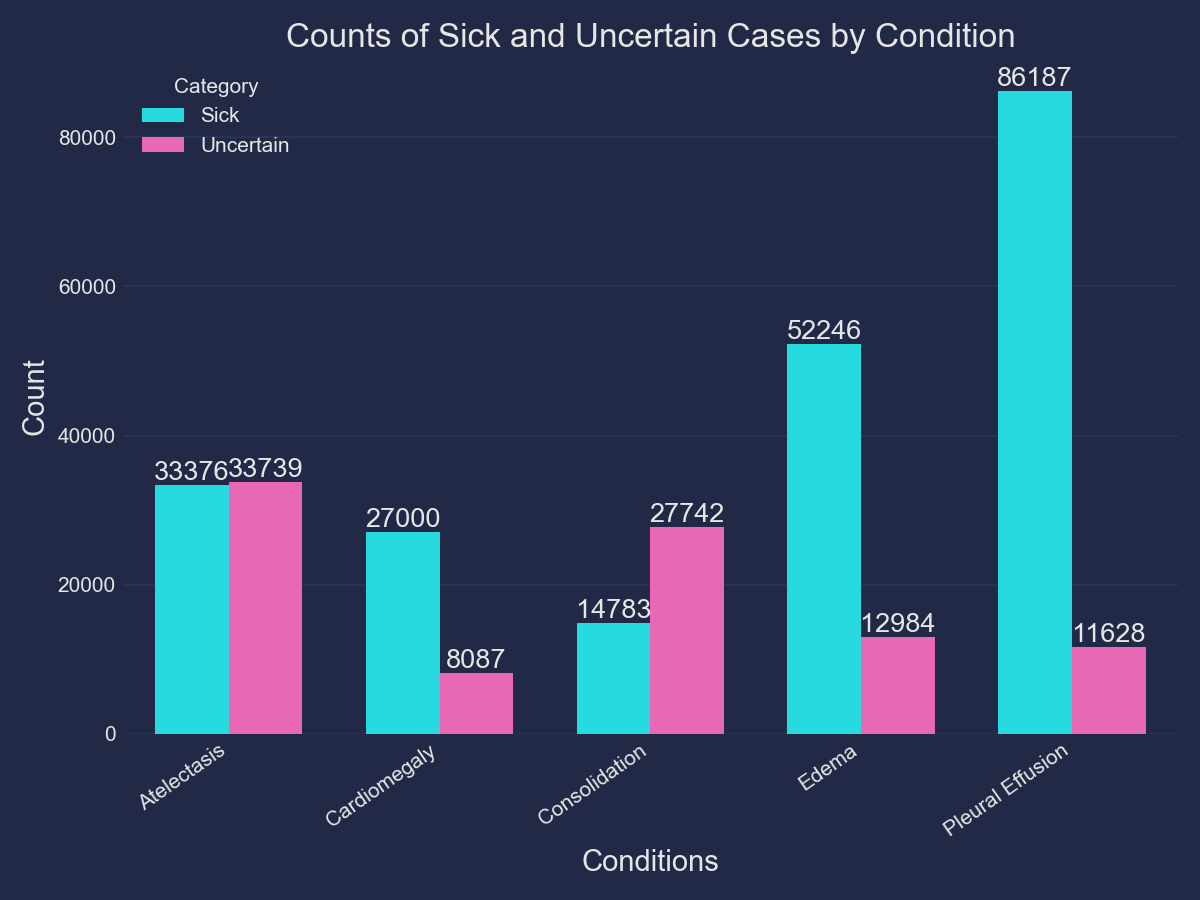
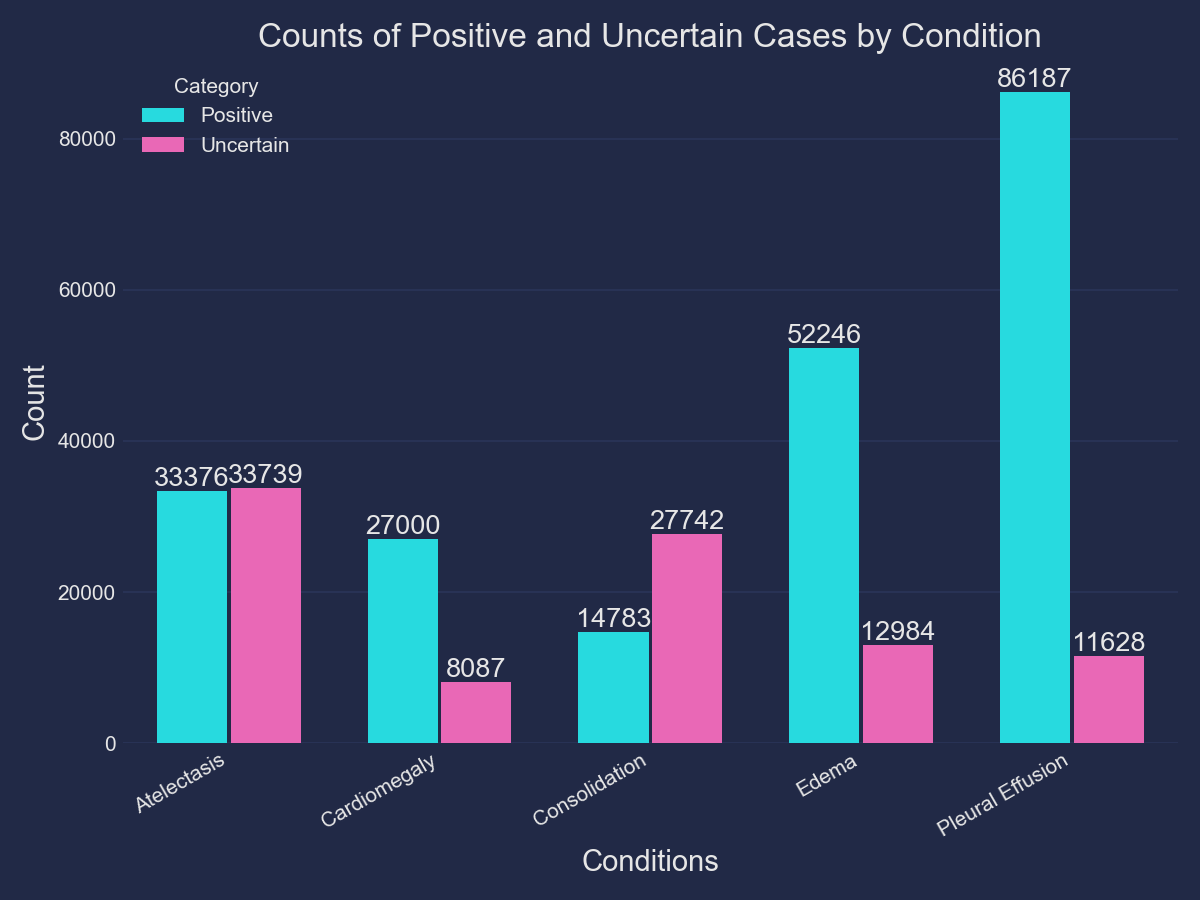
Add uncertainty conversion & tag listing
- Updated image assets and added a new one.
- Enhanced `CheXpertAnalyzer` to handle uncertain label conversion.
- Added `_apply_uncertain_mappings` method for label mapping.
- Modified bar plot logic based on uncertainty conversion flag.
- Introduced `get_available_tags` method to list dataset tags.
- Updated command-line interface with new options for converting uncertainties and listing tags.

diff --git a/data/chexpert_analyzer.py b/data/chexpert_analyzer.py
@@ -27,12 +27,31 @@ CHEXPERT_UNCERTAIN_MAPPINGS = {
 class CheXpertAnalyzer:
     """Class for analyzing and visualizing CheXpert dataset."""
 
-    def __init__(self, csv_path: str):
+    def __init__(self, csv_path: str, convert_uncertain: bool = False):
+        """
+        Initialize the CheXpert analyzer.
+        
+        Args:
+            csv_path: Path to the CheXpert CSV file
+            convert_uncertain: Whether to convert uncertain labels (-1) using the mapping
+        """
         self.df = pd.read_csv(csv_path)
+        self.convert_uncertain = convert_uncertain
+        
         # Drop non-finding columns and first row column
         self.feature_cols = [col for col in self.df.columns if col not in 
                             ['Path', 'Sex', 'Age', 'Frontal/Lateral', 'AP/PA']]
         
+        # Apply uncertain mappings if requested
+        if self.convert_uncertain:
+            self._apply_uncertain_mappings()
+    
+    def _apply_uncertain_mappings(self) -> None:
+        """Apply the uncertain value mappings from the CheXpert paper."""
+        for condition, mapping in CHEXPERT_UNCERTAIN_MAPPINGS.items():
+            if condition in self.df.columns:
+                # Replace -1.0 values with the mapping (0 or 1)
+                self.df.loc[self.df[condition] == -1.0, condition] = mapping
 
     def count_conditions(self, tags: List[str]) -> pd.DataFrame:
         """
@@ -57,12 +76,17 @@ class CheXpertAnalyzer:
         
         for tag in tags:
             sick_count = (tag_data[tag] == 1.0).sum()
-            uncertain_count = (tag_data[tag] == -1.0).sum()
             
-            result_data.extend([
-                {'Tag': tag, 'Category': 'Sick', 'Count': sick_count},
-                {'Tag': tag, 'Category': 'Uncertain', 'Count': uncertain_count}
-            ])
+            # Only count uncertain if we're not converting them
+            if self.convert_uncertain:
+                # When converted, we don't have uncertain values anymore
+                result_data.append({'Tag': tag, 'Category': 'Positive', 'Count': sick_count})
+            else:
+                uncertain_count = (tag_data[tag] == -1.0).sum()
+                result_data.extend([
+                    {'Tag': tag, 'Category': 'Positive', 'Count': sick_count},
+                    {'Tag': tag, 'Category': 'Uncertain', 'Count': uncertain_count}
+                ])
             
         return pd.DataFrame(result_data)
 
@@ -72,32 +96,44 @@ class CheXpertAnalyzer:
         plt.figure(figsize=(8, 6))
         
         # Define color palette (Data volume ranking)
-        # palette_name = 'coolwarm'
-        # pal = sns.color_palette(palette_name, len(count_df['Tag']))
-        # print(count_df)
-        # print(count_df['Tag'])
-        # rank = count_df['Count'].argsort().argsort()
-        # palette_list = list(np.array(pal)[rank])
+        palette_name = 'coolwarm'
+        pal = sns.color_palette(palette_name, len(count_df['Tag']))
+        rank = count_df['Count'].argsort().argsort()
+        palette_list = list(np.array(pal)[rank])
 
-        # Create the grouped bar plot
         plt.style.use('cyberpunk')
-        ax = sns.barplot(
-            x='Tag', 
-            y='Count', 
-            hue='Category',
-            data=count_df,
-            # palette=palette_list,
-            # dodge=False, 
-            width=0.7
-        )
-        
+        if self.convert_uncertain:
+            # Create the grouped bar plot
+            ax = sns.barplot(
+                x='Tag', 
+                y='Count', 
+                hue='Tag',
+                data=count_df,
+                palette=palette_list,
+                dodge=False, 
+                width=0.5
+            )
+        else:
+            ax = sns.barplot(
+                x='Tag', 
+                y='Count', 
+                hue='Category',
+                data=count_df,
+                gap=0.05,
+                width=0.7
+            )
+
         # Set title and labels
-        ax.set_title('Counts of Sick and Uncertain Cases by Condition', fontsize=16)
+        title = 'Counts of Positive Cases by Condition'
+        if not self.convert_uncertain:
+            title = 'Counts of Positive and Uncertain Cases by Condition'
+            
+        ax.set_title(title, fontsize=16)
         ax.set_xlabel('Conditions', fontsize=14)
         ax.set_ylabel('Count', fontsize=14)
         
         # Rotate x-axis labels if there are many conditions
-        plt.xticks(rotation=35, ha='right')
+        plt.xticks(rotation=30, ha='right')
         
         # Add count labels on the bars
         for container in ax.containers:
@@ -108,6 +144,9 @@ class CheXpertAnalyzer:
         plt.savefig(output_path, dpi=150)
         plt.close()
 
+    def get_available_tags(self) -> List[str]:
+        """Return a list of available condition tags in the dataset."""
+        return self.feature_cols
 
 def parse_arguments() -> argparse.Namespace:
     """Parse command line arguments."""
@@ -115,28 +154,40 @@ def parse_arguments() -> argparse.Namespace:
     parser.add_argument('--csv_path', type=str, required=True, help='Path to the CheXpert CSV file')
     parser.add_argument('--tags', type=str, nargs='+', required=True, help='List of condition tags to analyze')
     parser.add_argument('--output_path', type=str, required=True, help='Path to save the visualization')
+    parser.add_argument('--convert_uncertain', action='store_true', 
+                        help='Convert uncertain labels (-1) using CheXpert paper mappings')
+    parser.add_argument('--list_tags', action='store_true',
+                        help='List all available condition tags in the dataset')
     
     return parser.parse_args()
 
-
 def main() -> None:
     args = parse_arguments()
+    
+    # Initialize analyzer
+    analyzer = CheXpertAnalyzer(args.csv_path, convert_uncertain=args.convert_uncertain)
+    
+    # List available tags if requested
+    if args.list_tags:
+        print("Available condition tags:")
+        for tag in analyzer.get_available_tags():
+            print(f"  - {tag}")
+        return
     
     # Ensure the output directory exists
     output_dir = Path(args.output_path).parent
     output_dir.mkdir(parents=True, exist_ok=True)
     
-    # Initialize analyzer and process data
-    analyzer = CheXpertAnalyzer(args.csv_path)
-    
     try:
         count_df = analyzer.count_conditions(args.tags)
         analyzer.visualize_counts(count_df, args.output_path)
-        print(f"Analysis complete. Visualization saved to {args.output_path}")
+        
+        # Print summary of what was done
+        conversion_status = "with uncertainty conversion" if args.convert_uncertain else "without uncertainty conversion"
+        print(f"Analysis complete {conversion_status}. Visualization saved to {args.output_path}")
     except ValueError as e:
         print(f"Error: {e}")
         return
-
 
 if __name__ == "__main__":
     main()
@@ -144,8 +195,9 @@ if __name__ == "__main__":
 """
 python chexpert_analyzer.py --csv_path path/to/chexpert.csv --tags "No Finding" "Pneumonia" "Edema" --output_path path/to/output.png
 
-python data\chexpert_analyzer.py --csv_path D:\Kai\DATA_Set_2\X-ray\CheXpert-v1.0-small\valid.csv --tags "Atelectasis" "Cardiomegaly" "Consolidation" "Edema" "Pleural Effusion" --output_path output/chexpert_val.png
+python data\chexpert_analyzer.py --csv_path D:\Kai\DATA_Set_2\X-ray\CheXpert-v1.0-small\valid.csv --tags "Atelectasis" "Cardiomegaly" "Consolidation" "Edema" "Pleural Effusion" --output_path output/chexpert_val.png  --convert_uncertain
 
-python data\chexpert_analyzer.py --csv_path D:\Kai\DATA_Set_2\X-ray\CheXpert-v1.0-small\train.csv --tags "Atelectasis" "Cardiomegaly" "Consolidation" "Edema" "Pleural Effusion" --output_path output/chexpert_train.png
+python data\chexpert_analyzer.py --csv_path D:\Kai\DATA_Set_2\X-ray\CheXpert-v1.0-small\train.csv --tags "Atelectasis" "Cardiomegaly" "Consolidation" "Edema" "Pleural Effusion" --output_path output/chexpert_train.png --convert_uncertain
+
 
 """
